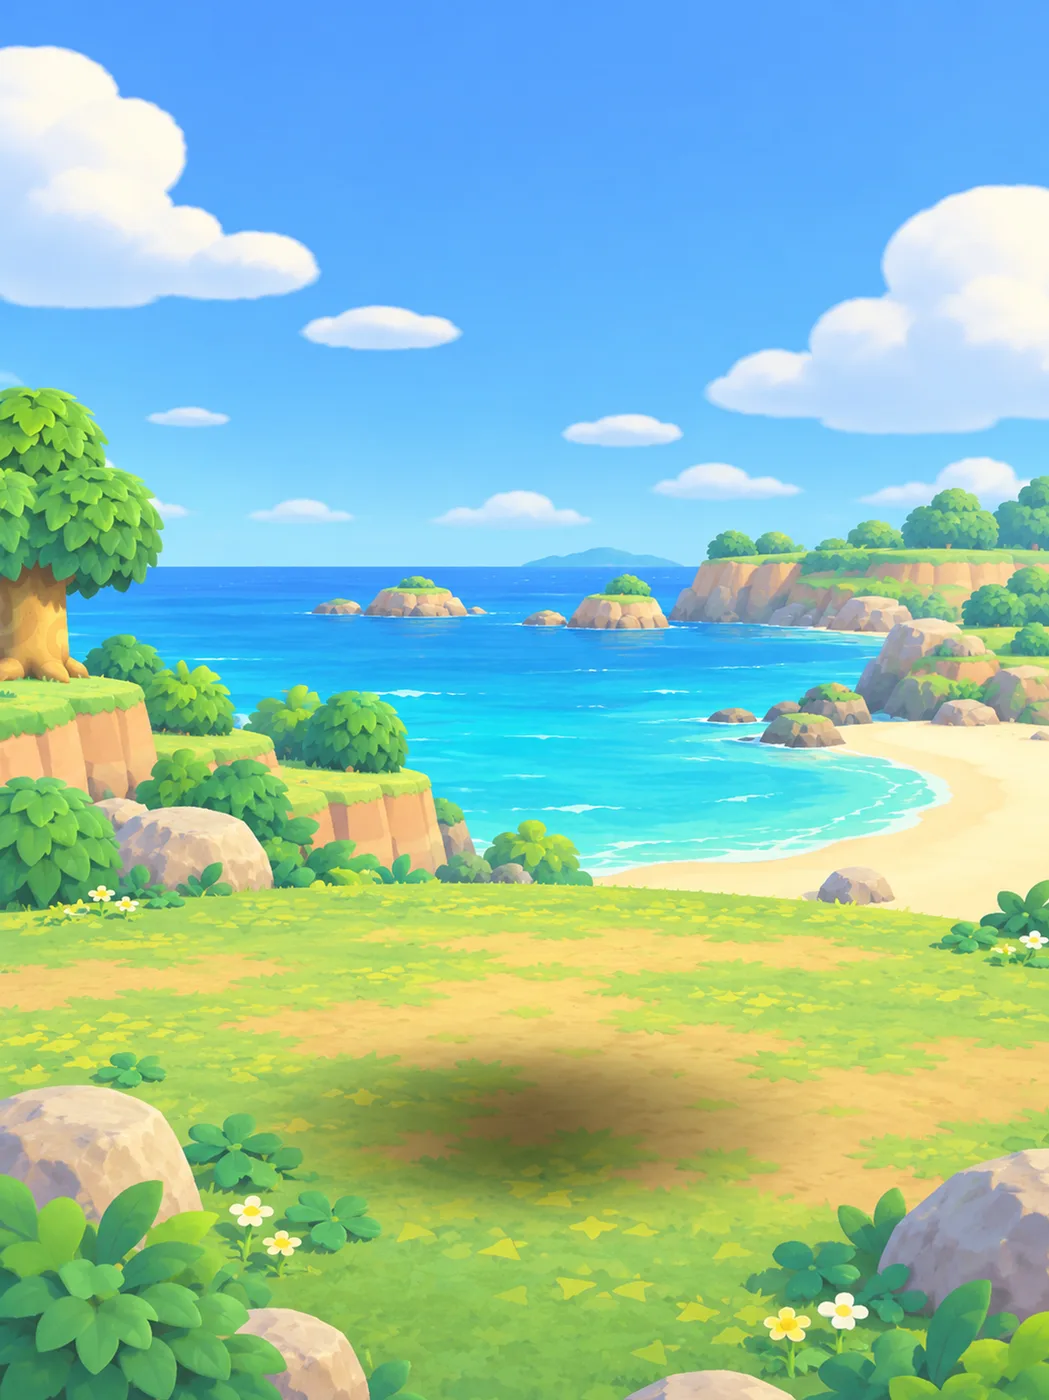
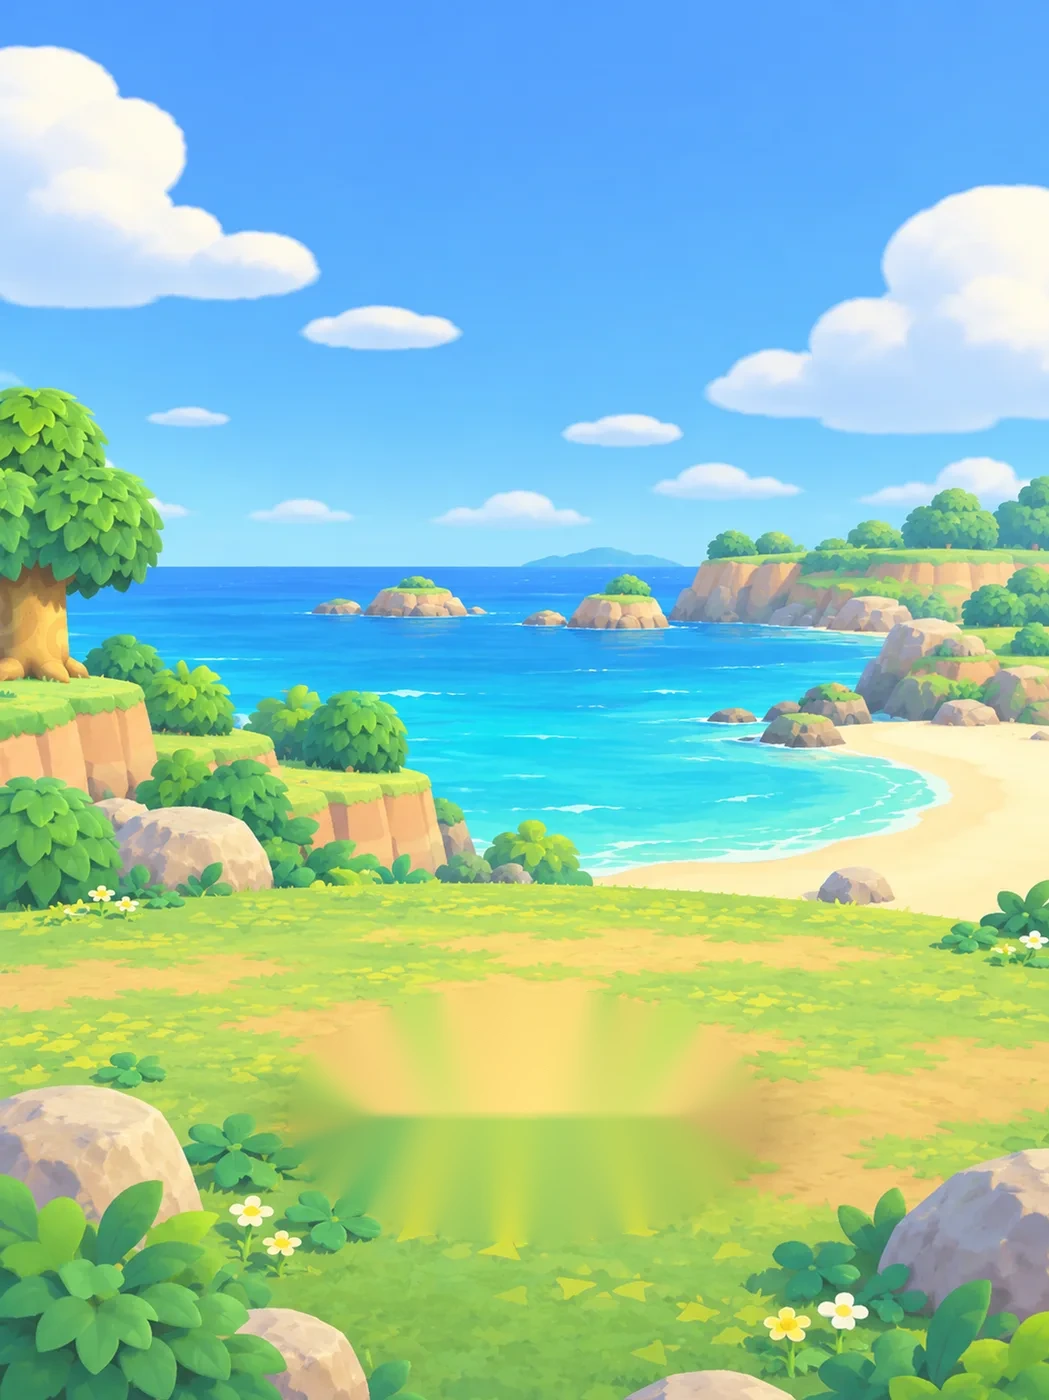
Replace baked-in background shadow with a dynamic one tied to the quokka
The shadow was painted directly into bg1.webp at a fixed pixel spot,
which only lined up with the quokka's feet by coincidence at one
specific viewport state - inpainted it out of the background. Added a
.quokka-shadow radial-gradient ellipse as a child of .quokka-wrap so
it always renders right at the quokka's feet, moving and scaling with
it under any viewport/device quirk instead of depending on a fixed
background image position.

Changed region(s): [[0.2745, 0.7064, 0.7016, 0.8907]]

diff --git a/leaf-rush.html b/leaf-rush.html
@@ -76,6 +76,12 @@
     position:absolute; left:50%; bottom:4%; transform:translateX(-50%);
     width:min(58vw,280px); aspect-ratio:600/630;
   }
+  .quokka-shadow{
+    position:absolute; left:50%; bottom:6%; transform:translateX(-50%);
+    width:52%; height:11%;
+    background:radial-gradient(ellipse at center, rgba(20,15,10,.4) 0%, rgba(20,15,10,.22) 55%, rgba(20,15,10,0) 80%);
+    pointer-events:none;
+  }
   .quokka-img{ width:100%; height:100%; object-fit:contain; display:block; transform-origin:50% 70%; }
   .quokka-img.chomp{ animation:chomp .22s ease; }
   @keyframes chomp{
@@ -248,6 +254,7 @@
 
   <div class="play-area" id="playArea">
     <div class="quokka-wrap">
+      <div class="quokka-shadow"></div>
       <img class="quokka-img" id="quokkaImg" src="assets/quokka-eat-closed.webp" alt="쿼카">
       <div class="hint hidden" id="hint">떨어지는 나뭇잎을<br>콕콕 터치해서 먹여주세요!</div>
     </div>
